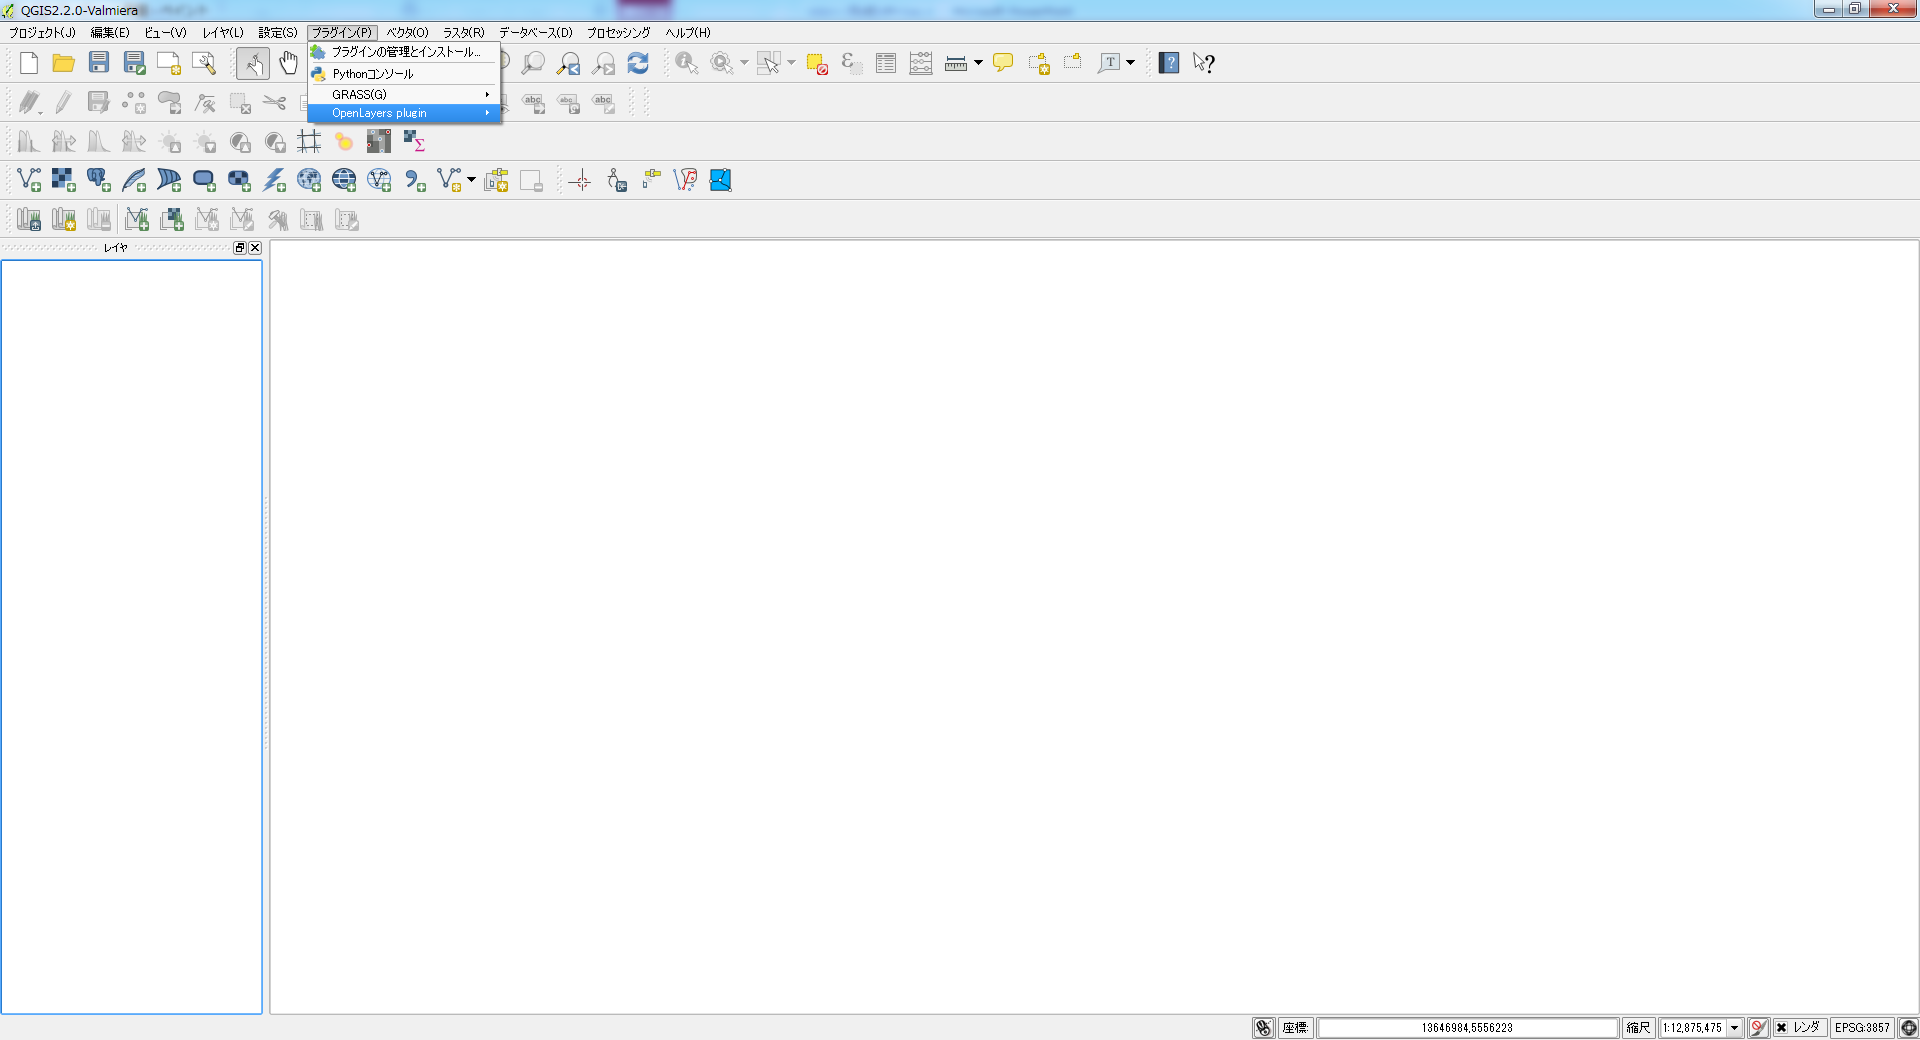
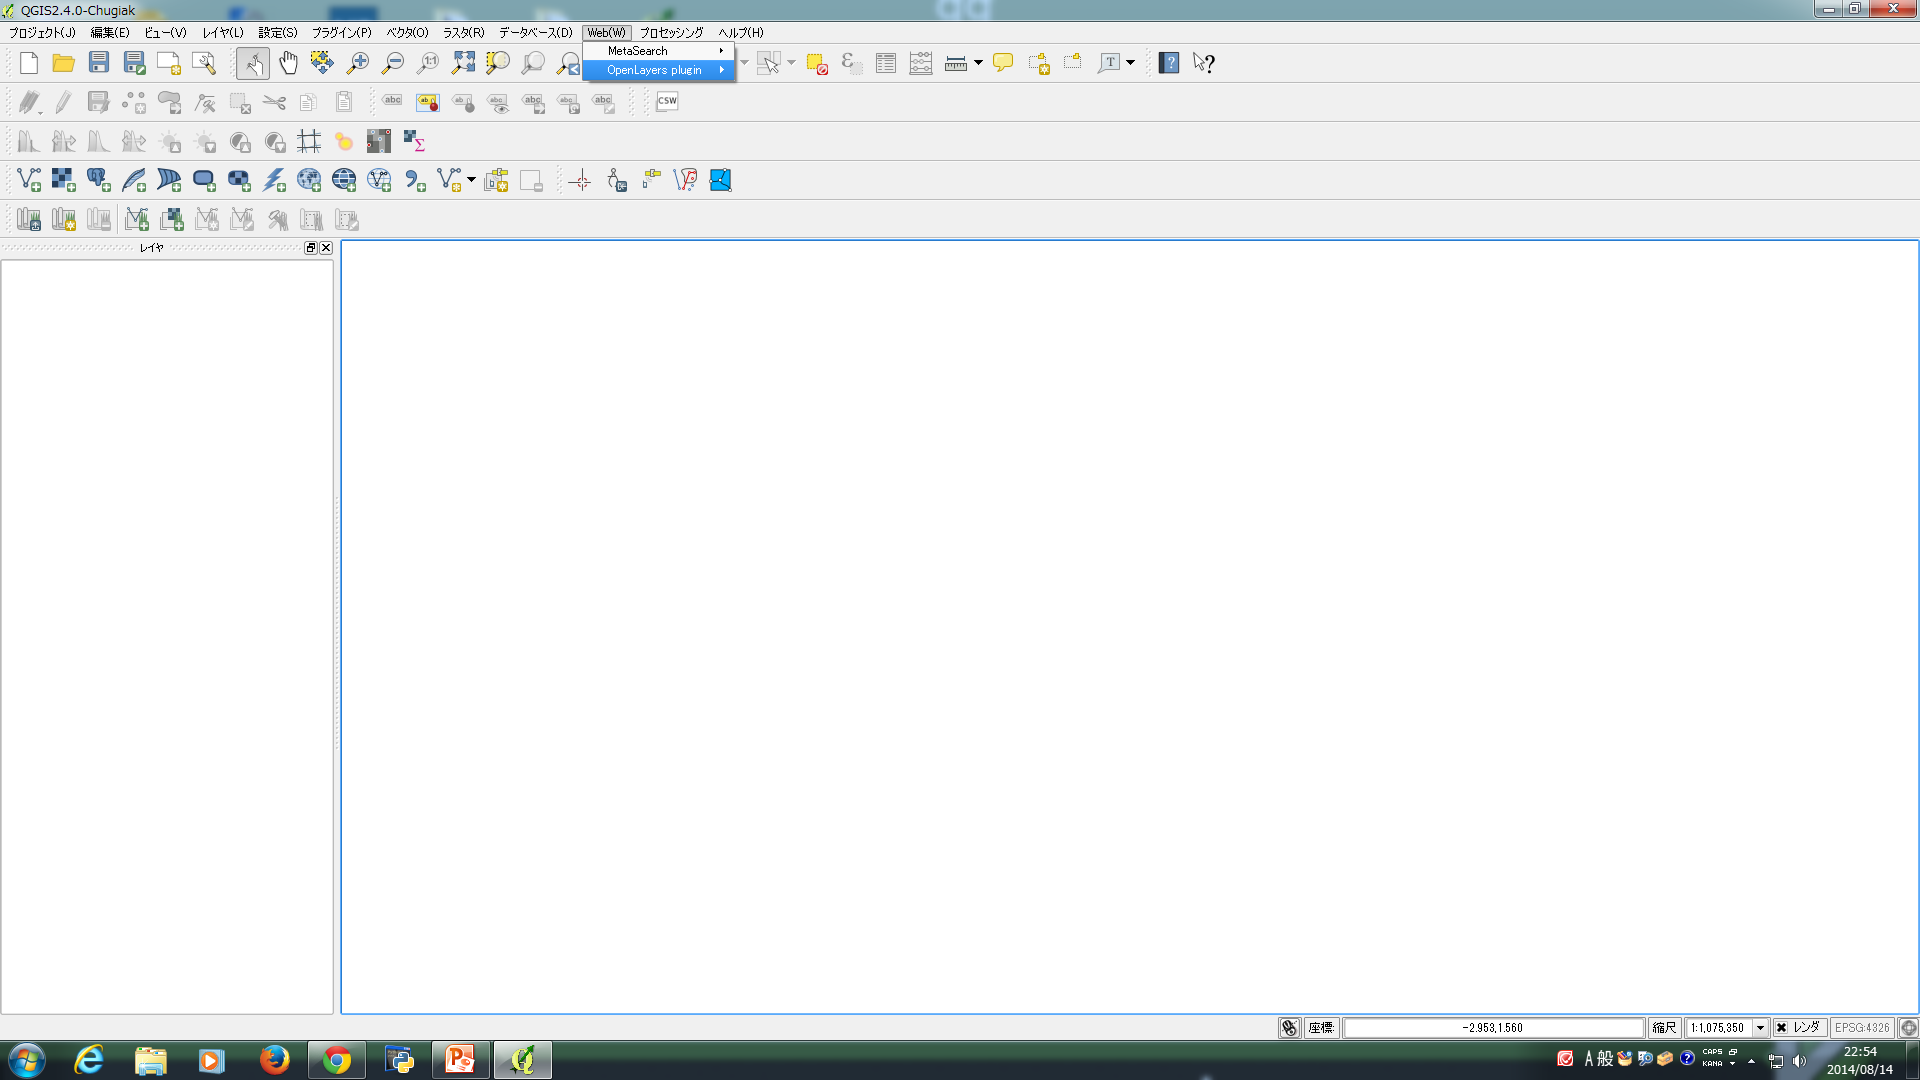
rewrite 3-2.md
update QGIS from 2.2 to 2.4(latest)
!CAUTION! plugin customize for 地理院地図

Changed region(s): [[0.0, 0.0, 1.0, 0.2462], [0.0, 0.9231, 1.0, 1.0]]

diff --git a/3/3-2.md b/3/3-2.md
@@ -1,46 +1,54 @@
-## 3.b pluginの使い方とハック
+## 3.b pluginの使い方と地理院地図の表示
 
 この章では、pluginを使用してOpenStreetMapを表示することと、pluginをハックして地理院地図を表示する方法を記述したいと思います。
 
 ### i pluginを使用する。
 
-pluginを使用してレイヤーを作成してみましょう。巻末のappendix1を参考にして、プラグインの管理とインストールから、OpenLayers Pluginが入っていることを確認してください。無い場合は追加してください。
+pluginを使用してレイヤーを作成してみましょう。巻末のappendix1を参考にして、【プラグイン(P)】をクリックしてください。次に〔プラグインの管理とインストール〕をクリックして、OpenLayers Pluginが入っていることを確認してください。無い場合は追加してください。
 
-### ii openstreetmapを表示する。
+### ii pluginを使用してopenstreetmapを表示する。
 
 ![プラグイン](./img/3-2-1.png).
 
-追加後に、プラグインをクリックすると
+追加後に、【Web(W)】をクリックします。
 
 ![プラグイン](./img/3-2-2.png).
 
-図のように、OpenLayersPluginを使用することが出来ることが可能になったかと思います。プルダウンメニューからAdd OpenStreetMap layerを選択してクリックしてください。
+図のように、OpenLayersPluginを使用することが出来ることが可能になったかと思います。プルダウンメニューから【OpenLayersPlugin】をクリックしてOpenStreetMap上にカーソルを置き選択状態「リストアイテム」としていくつかのオープンストリートマップ及び編集を加えたオープンストリートマップが選択できます。
 以下のようになったかと思います。
 
 ![オープンストリートマップ](./img/3-2-3.png).
 
-Add OpenCycleMap layerを選択してクリックしてください。例えば、以下のように表示されるかと思います。また、OpenStreetMapは元来有志が編集していますが、特に、CycleMapはその中でも特に自転車が好きな人たちの手で編集しているものになります。そのため、世界全体をカバーしていないので編集が盛んなヨーロッパ地域にズームしてから見てください。
+【OpenCycleMap】を選択してクリックしてください。例えば、以下のように表示されるかと思います。また、OpenStreetMapは元来有志が編集していますが、特に、OpenCycleMapはその中でも特に自転車が好きな人たちの手で編集しているものになります。そのため、世界全体をカバーしていないので編集が盛んなヨーロッパ地域にズームしてから見てください。
 
 ![オープンサイクルマップ](./img/3-2-4.png).
 
-Add OCM Landscape layerを選択してクリックしてください。例えば、以下のように表示されるかと思います。これは建物を地図上に編集して加えられた地図になります。サイクルマップ同様に、世界全体をカバーしていないのでその点にご注意ください。添付の図は、神奈川県横浜市港北区日吉駅周辺を拡大した場合のものです。
+![オープンサイクルマップ2](./img/3-2-5.png).
 
-![オープンランドスケープマップ](./img/3-2-5.png).
+例えば下の図は、特にオープンサイクルマップの編集が盛んなオランダのマーストリヒト周辺を拡大してみたものになります。
 
-Add OCM Public Transport layerを選択してクリックしてください。例えば、以下のように表示されるかと思います。これは公共交通機関を地図上に編集して加えられた地図になります。サイクルマップ同様に、世界全体をカバーしていないのでその点にご注意ください。添付の図は、東京都港区六本木駅周辺を拡大した場合のものです。
+![オープンサイクルマップ2](./img/3-2-6.png).
 
-![オープンパブリックトランスポートマップ](./img/3-2-7.png).
+【OCM Landscape】を選択してクリックしてください。例えば、以下のように表示されるかと思います。これは建物を地図上に編集して加えられた地図になります。サイクルマップ同様に、世界全体をカバーしていないのでその点にご注意ください。添付の図は、神奈川県横浜市港北区日吉駅周辺を拡大した場合のものです。
+
+![オープンランドスケープマップ](./img/3-2-7.png).
+
+【OCM Public Transport】を選択してクリックしてください。例えば、以下のように表示されるかと思います。これは公共交通機関を地図上に編集して加えられた地図になります。サイクルマップ同様に、世界全体をカバーしていないのでその点にご注意ください。添付の図は、東京都港区駅三田周辺を拡大した場合のものです。
+
+![オープンパブリックトランスポートマップ](./img/3-2-8.png).
 
 ### iii 地理院地図を表示する
 
-地理院地図を表示する場合に色々な方法がありますが、pluginをハックして表示できるように自分流にカスタマイズしてしてみましょう。
+//TODO QGIS2.4　update後につき要確認(2.2確認済み) Shoichi Otomo
+
+地理院地図を表示する場合に色々な方法がありますが、pluginのソースコードを変更、追記して、地理院地図を表示できるようにしてみましょう。
 
 Windowsの場合:C:\Users\[username]\.qgis2\python\plugins
 直下にダウンロードしたpluginが表示されます。今回はopenlayers_pluginをカスタマイズします。
 
 openlayers_pluginの中は以下のようなディレクトリ構成になっているかと思います。
 
-![openlayers_plugin](./img/3-2-8.png).
+![openlayers_plugin](./img/3-2-8a.png).
 
 - ディレクトリ構成を確認してください
 - openlayers_plugin.pyをエディターで編集します。124行目から、読み込ませる地図のレイヤー一覧が記載されているかと思います。その末尾に以下のように書き足してください。
